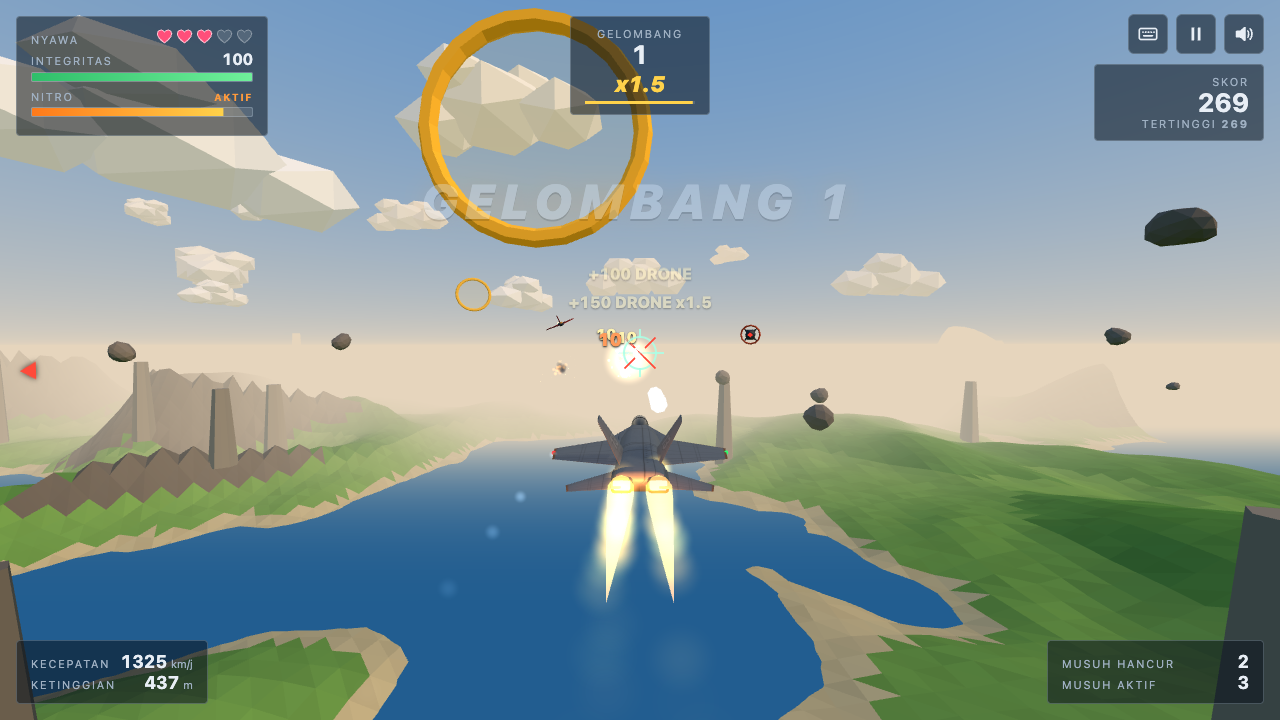
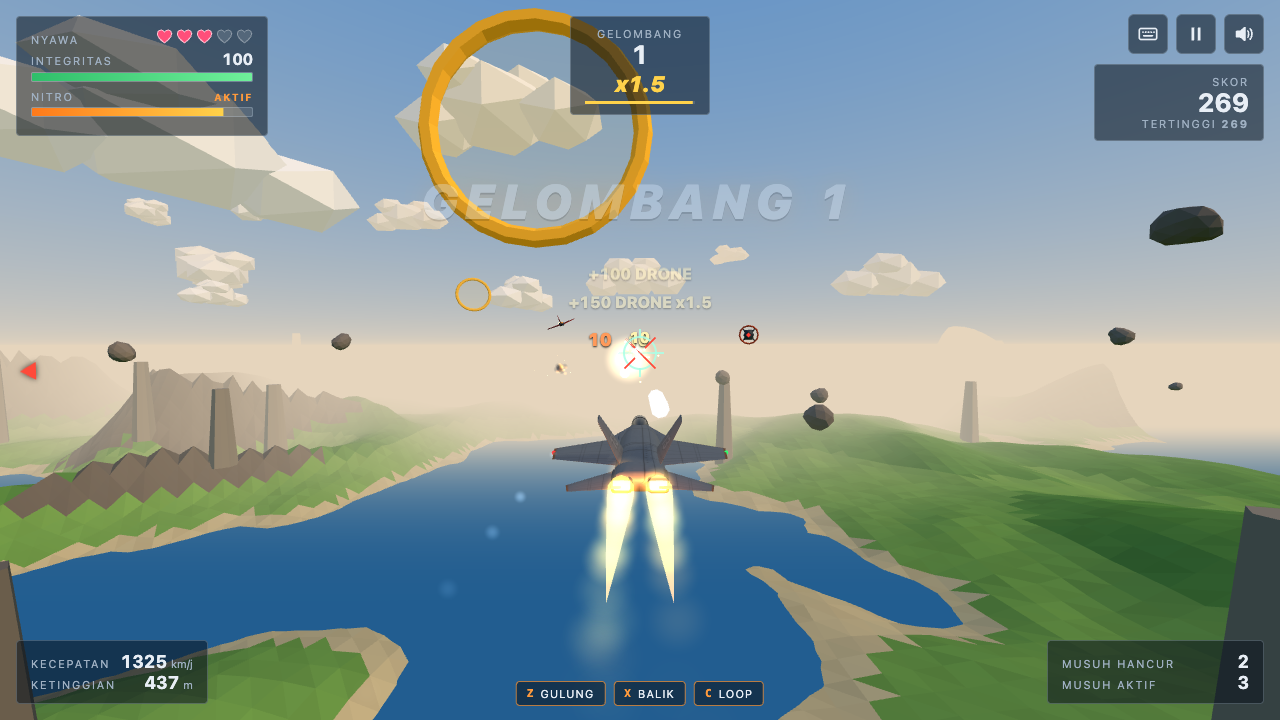
feat: B2 manuver Gulung Tong (kebal peluru), Balik Arah dan Looping dengan cooldown, indikator HUD, ketuk ganda dan tombol mode HP

diff --git a/index.html b/index.html
@@ -166,7 +166,18 @@
   .note { margin: 6px 0 0; font-size: 12px; color: #ffd28a; }
   .link { font: inherit; color: var(--ui-accent); background: none; border: 0; text-decoration: underline; cursor: pointer; padding: 0; }
   .btn.danger { color: #ffb0a0; border-color: rgba(255, 120, 100, 0.5); }
-  #fps { position: absolute; left: 50%; bottom: 12px; transform: translateX(-50%); font-size: 11px; color: var(--ui-dim); letter-spacing: 0.1em; }
+  #maneuvers { position: absolute; left: 50%; bottom: calc(14px + env(safe-area-inset-bottom)); transform: translateX(-50%); display: flex; gap: 8px; }
+  .man {
+    position: relative; overflow: hidden; display: flex; align-items: center; gap: 6px; padding: 5px 10px;
+    background: var(--ui-panel); border: 1px solid var(--ui-line); border-radius: 4px; font-size: 11px; letter-spacing: 0.1em;
+  }
+  .man i { position: absolute; inset: 0; background: rgba(255, 154, 60, 0.28); transform-origin: left center; transform: scaleX(0); }
+  .man b, .man span { position: relative; }
+  .man b { font-family: ui-monospace, Menlo, monospace; color: var(--ui-accent); }
+  .man.ready { border-color: rgba(255, 154, 60, 0.7); }
+  .man.active { background: rgba(255, 154, 60, 0.45); }
+  body.mode-hp #maneuvers { display: none; }
+  #fps { position: absolute; left: 50%; bottom: 52px; transform: translateX(-50%); font-size: 11px; color: var(--ui-dim); letter-spacing: 0.1em; }
   @media (max-width: 560px) { .set-grid { grid-template-columns: 1fr; } }
   #countdown {
     position: fixed; inset: 0; z-index: 25; display: flex; flex-direction: column; align-items: center; justify-content: center;
@@ -194,6 +205,9 @@
   .t-fire { right: 0; bottom: 0; width: 100px; height: 100px; background: rgba(255, 90, 60, 0.35) !important; }
   .t-fire.on { background: rgba(255, 90, 60, 0.7) !important; }
   .t-nitro { left: 0; bottom: 8px; width: 76px; height: 76px; }
+  #touch .t-man { width: 58px; height: 40px; border-radius: 10px; font-size: 10px; top: 0; }
+  .t-roll { left: 0; } .t-imm { left: 66px; } .t-loop { left: 132px; }
+  #touch .t-man.cool { opacity: 0.45; }
   body.mode-hp .hud-block.bl, body.mode-hp .hud-block.br { bottom: auto; top: calc(150px + env(safe-area-inset-top)); }
   body.mode-hp .hud-block.br { top: calc(150px + env(safe-area-inset-top)); }
   .tool .ic-hp { display: none; }
@@ -413,6 +427,11 @@
     <div class="stat"><span class="label">MUSUH AKTIF</span><span id="enemies" class="num">0</span></div>
   </div>
   <div id="warning" class="hidden">TARIK NAIK!</div>
+  <div id="maneuvers">
+    <div class="man" data-man="roll"><i></i><b>Z</b><span>GULUNG</span></div>
+    <div class="man" data-man="immelmann"><i></i><b>X</b><span>BALIK</span></div>
+    <div class="man" data-man="loop"><i></i><b>C</b><span>LOOP</span></div>
+  </div>
   <div id="fps" class="hidden">0 FPS</div>
   <div id="banner"></div>
   <div id="toasts"></div>
@@ -428,6 +447,9 @@
   <div class="actions">
     <button class="tbtn t-nitro" data-act="nitro" type="button">NITRO</button>
     <button class="tbtn t-fire" data-act="fire" type="button">TEMBAK</button>
+    <button class="tbtn t-man t-roll" data-man="roll" type="button">GULUNG</button>
+    <button class="tbtn t-man t-imm" data-man="immelmann" type="button">BALIK</button>
+    <button class="tbtn t-man t-loop" data-man="loop" type="button">LOOP</button>
   </div>
 </div>
 <div id="rotate-hint" class="screen hidden"><div class="card"><h2>PUTAR LAYAR</h2><p class="hint">Mode HP dimainkan mendatar (landscape). Putar perangkatmu untuk melanjutkan.</p></div></div>
@@ -644,6 +666,13 @@ const CONFIG = {
     rollRate: 2.6,             // laju roll saat A atau D ditekan sambil pitch
     autoLevelRate: 1.1,        // laju penstabil otomatis mengembalikan hidung ke horizon
     climbSpeedFactor: 0.15,    // kecepatan naik 15 persen saat menukik, turun 15 persen saat menanjak
+  },
+  // Manuver akrobatik: durasi dan cooldown dalam detik
+  maneuvers: {
+    roll: { label: 'GULUNG', key: 'Z', duration: 0.85, cooldown: 4, sideShift: 16 },   // kebal peluru selama gulungan
+    immelmann: { label: 'BALIK', key: 'X', duration: 1.9, cooldown: 6 },              // setengah looping lalu setengah gulungan
+    loop: { label: 'LOOP', key: 'C', duration: 2.6, cooldown: 5 },
+    doubleTapWindow: 0.28,     // ketuk ganda A atau D untuk gulung tong
   },
   camera: {
     fov: 68,                   // FOV normal
@@ -1576,6 +1605,9 @@ const Player = {
   _up: new THREE.Vector3(0, 1, 0),
   _right: new THREE.Vector3(1, 0, 0),
   autoLevel: true,
+  maneuver: null,                     // { type, t, dur, dir, applied }
+  cooldowns: { roll: 0, immelmann: 0, loop: 0 },
+  get rolling() { return this.maneuver ? this.maneuver.type === 'roll' : false; },
   yaw: 0, pitch: 0, roll: 0,
   speed: 0,
   health: null,        // komponen Health, dibuat setelah definisi objek
@@ -1596,6 +1628,8 @@ const Player = {
     this.pos.set(0, Worlds.active.safeStartAltitude(), 0);
     this.yaw = 0; this.pitch = 0; this.roll = 0;
     this.quat.identity();
+    this.maneuver = null;
+    this.cooldowns.roll = 0; this.cooldowns.immelmann = 0; this.cooldowns.loop = 0;
     this.speed = C.baseSpeed * this.ship.stats.speed;
     this.health.reset(this.ship.stats.hp);
     this.alive = true;
@@ -1621,14 +1655,21 @@ const Player = {
   update(dt, pitchIn, yawIn) {
     const C = CONFIG.player, F = CONFIG.flight, W = Worlds.active, q = this.quat;
     const agility = this.ship.stats.agility;
+    for (const k in this.cooldowns) if (this.cooldowns[k] > 0) this.cooldowns[k] = Math.max(0, this.cooldowns[k] - dt);
+    if (this.maneuver) {
+      this.updateManeuver(dt);
+      pitchIn = 0; yawIn = 0;
+    }
     this.basis();
     const f = this.forward, up = this._up, right = this._right;
     const vertical = Math.abs(f.y) > 0.94;                // dekat tegak lurus: bank tidak terdefinisi
     const bank = Math.atan2(right.y, up.y);               // positif = miring kiri; sekitar pi = terbalik
 
     // Pitch: rotasi di sumbu kanan lokal (positif = hidung naik)
-    if (pitchIn !== 0) this.rotateLocal(_AX_X, pitchIn * F.pitchRate * agility * dt);
-    if (pitchIn !== 0) {
+    if (this.maneuver) { /* manuver mengendalikan orientasi */ }
+    else if (pitchIn !== 0) this.rotateLocal(_AX_X, pitchIn * F.pitchRate * agility * dt);
+    if (this.maneuver) { /* tanpa koreksi bank selama manuver */ }
+    else if (pitchIn !== 0) {
       // Tarik sambil belok dalam posisi tegak: bank menuju target (belokan tajam).
       // Saat terbalik atau vertikal, A dan D menjadi laju roll. W saja tidak dikoreksi agar looping bersih.
       if (yawIn !== 0) {
@@ -1656,7 +1697,7 @@ const Player = {
     // Belok: yaw di sumbu tegak dunia sebanding bank (hanya saat tidak terbalik), diperkecil saat menanjak tajam
     this.basis();
     const bank2 = Math.atan2(this._right.y, this._up.y);
-    if (Math.abs(bank2) < Math.PI / 2) {
+    if (this.maneuver ? false : Math.abs(bank2) < Math.PI / 2) {
       const horiz = Math.sqrt(Math.max(0, 1 - this.forward.y * this.forward.y));
       const turn = C.turnRate * agility * clamp(Math.sin(bank2) / Math.sin(C.maxRoll), -1.2, 1.2) * horiz;
       _qb.setFromAxisAngle(_AX_Y, turn * dt);
@@ -1678,6 +1719,49 @@ const Player = {
     if (this.pos.y < W.minY) this.pos.y = W.minY;
     this.rig.quaternion.copy(q);
     this.syncEuler();
+  },
+
+  // Mulai manuver bila tidak sedang bermanuver dan cooldown sudah habis
+  startManeuver(type, dir = 1, force = false) {
+    if (!this.alive || Game.state !== 'playing') return false;
+    if (this.maneuver) return false;
+    if (!force) { if (this.cooldowns[type] > 0) return false; }
+    const M = CONFIG.maneuvers[type];
+    this.maneuver = { type, t: 0, dur: M.duration, dir: dir < 0 ? -1 : 1, applied: 0, applied2: 0 };
+    this.cooldowns[type] = M.cooldown;
+    Events.emit('maneuver', type);
+    return true;
+  },
+  // Kurva halus 0..1 untuk sudut manuver
+  ease(x) { x = clamp(x, 0, 1); return x * x * (3 - 2 * x); },
+  updateManeuver(dt) {
+    const m = this.maneuver;
+    m.t += dt;
+    const k = Math.min(1, m.t / m.dur);
+    if (m.type === 'roll') {
+      // Satu putaran penuh di sumbu depan, sambil bergeser menyamping untuk menghindar
+      const target = this.ease(k) * Math.PI * 2 * m.dir;
+      this.rotateLocal(_AX_Z, target - m.applied);
+      m.applied = target;
+      this.basis();
+      const shift = -m.dir * CONFIG.maneuvers.roll.sideShift * Math.sin(Math.PI * k) * dt * 2;
+      this.pos.x += this._right.x * shift;
+      this.pos.z += this._right.z * shift;
+    } else if (m.type === 'immelmann') {
+      // 60 persen waktu: setengah looping naik; sisanya: setengah gulungan kembali tegak
+      const kp = clamp(k / 0.6, 0, 1), kr = clamp((k - 0.6) / 0.4, 0, 1);
+      const pTarget = this.ease(kp) * Math.PI;
+      this.rotateLocal(_AX_X, pTarget - m.applied);
+      m.applied = pTarget;
+      const rTarget = this.ease(kr) * Math.PI;
+      this.rotateLocal(_AX_Z, rTarget - m.applied2);
+      m.applied2 = rTarget;
+    } else {
+      const target = this.ease(k) * Math.PI * 2;
+      this.rotateLocal(_AX_X, target - m.applied);
+      m.applied = target;
+    }
+    if (k >= 1) this.maneuver = null;
   },
 
   // Vektor arah dari quaternion (tanpa alokasi)
@@ -2964,7 +3048,7 @@ function updateCombat() {
     if (!eb.active[i]) continue;
     const i3 = i * 3;
     const bx = eb.p[i3], by = eb.p[i3 + 1], bz = eb.p[i3 + 2];
-    if (Player.alive) {
+    if (Player.alive ? !Player.rolling : false) {   // gulung tong: kebal peluru musuh
       if (segmentHitsSphere(eb.prev[i3], eb.prev[i3 + 1], eb.prev[i3 + 2], bx, by, bz, P.x, P.y, P.z, pr)) {
         eb.kill(i);
         Events.emit('bulletImpact', bx, by, bz);
@@ -4332,6 +4416,8 @@ function updateHud(dt) {
   }
   updateIndicators();
   updateHpBars();
+  updateManeuverHud();
+  Touch.updateCooldowns();
   updateDamageNumbers(dt);
   v = Game.state === 'playing' ? (Player.alive ? hp < CONFIG.player.criticalHp : false) : false;
   if (changed('critical', v)) $('critical').classList.toggle('hidden', !v);
@@ -4377,6 +4463,20 @@ function updateHpBars() {
   for (let k = hpBarCount; k < hud.hpBars.length; k++) {
     const b = hud.hpBars[k];
     if (b.shown) { b.shown = false; b.el.style.display = 'none'; }
+  }
+}
+
+// Indikator cooldown manuver
+hud.mans = {};
+for (const el of document.querySelectorAll('#maneuvers .man')) hud.mans[el.dataset.man] = { el, fill: el.querySelector('i') };
+function updateManeuverHud() {
+  for (const k in hud.mans) {
+    const cd = Player.cooldowns[k], tot = CONFIG.maneuvers[k].cooldown;
+    const active = Player.maneuver ? Player.maneuver.type === k : false;
+    const v = Math.round((cd / tot) * 40) / 40;
+    if (changed('man' + k, v)) hud.mans[k].fill.style.transform = 'scaleX(' + v + ')';
+    const cls = active ? 'man active' : cd <= 0 ? 'man ready' : 'man';
+    if (changed('manc' + k, cls)) hud.mans[k].el.className = cls;
   }
 }
 
@@ -4809,6 +4909,7 @@ const Controls = {
 // Sumber keyboard: berbasis KeyboardEvent.code (posisi fisik tombol)
 const Keyboard = {
   down: Object.create(null),   // code -> boolean
+  lastTap: { code: '', t: 0 },
   fill(c) {
     const d = this.down;
     if (d.KeyW) c.up = true;
@@ -4826,7 +4927,7 @@ Controls.addSource(Keyboard);
 // Tombol yang aksi bawaan browsernya harus dicegah (scroll, klik tombol yang sedang fokus)
 const PREVENT_CODES = new Set(['Space', 'Enter', 'NumpadEnter', 'ArrowUp', 'ArrowDown', 'ArrowLeft', 'ArrowRight']);
 const GAME_CODES = new Set(['KeyW', 'KeyA', 'KeyS', 'KeyD', 'Space', 'Enter', 'NumpadEnter', 'KeyP', 'Escape', 'KeyR', 'KeyM',
-  'ShiftLeft', 'ShiftRight',
+  'ShiftLeft', 'ShiftRight', 'KeyZ', 'KeyX', 'KeyC',
   'ArrowUp', 'ArrowDown', 'ArrowLeft', 'ArrowRight']);
 // Navigasi menu dengan keyboard: panah atas dan bawah memilih, Enter menekan, Esc menutup overlay.
 // Mengembalikan true bila tombol sudah ditangani.
@@ -4895,6 +4996,25 @@ function onKeyDown(e) {
     case 'KeyM':
       toggleMute();
       break;
+    case 'KeyZ':
+      Player.startManeuver('roll', Keyboard.down.KeyD ? -1 : 1);
+      break;
+    case 'KeyX':
+      Player.startManeuver('immelmann');
+      break;
+    case 'KeyC':
+      Player.startManeuver('loop');
+      break;
+    case 'KeyA':
+    case 'KeyD': {
+      // Ketuk ganda A atau D: gulung tong ke arah itu
+      const now = performance.now() / 1000;
+      if (Keyboard.lastTap.code === code) {
+        if (now - Keyboard.lastTap.t < CONFIG.maneuvers.doubleTapWindow) Player.startManeuver('roll', code === 'KeyD' ? -1 : 1);
+      }
+      Keyboard.lastTap.code = code; Keyboard.lastTap.t = now;
+      break;
+    }
   }
 }
 
@@ -4964,7 +5084,15 @@ const Touch = {
   },
   init() {
     for (const b of this.root.querySelectorAll('[data-act]')) this.buttons[b.dataset.act] = b;
+    this.manButtons = Array.from(this.root.querySelectorAll('[data-man]'));
     const down = (e) => {
+      // Tombol manuver: sekali tekan
+      const mb = e.target.closest('[data-man]');
+      if (mb) {
+        e.preventDefault();
+        Player.startManeuver(mb.dataset.man, this.counts.right > 0 ? -1 : 1);
+        return;
+      }
       const b = e.target.closest('[data-act]');
       if (!b) return;
       e.preventDefault();
@@ -4986,6 +5114,14 @@ const Touch = {
     this.root.addEventListener('pointercancel', up);
     this.root.addEventListener('lostpointercapture', up);
     this.root.addEventListener('contextmenu', (e) => e.preventDefault());
+  },
+  // Tombol manuver meredup saat cooldown
+  updateCooldowns() {
+    if (!this.enabled) return;
+    for (const b of this.manButtons) {
+      const cool = Player.cooldowns[b.dataset.man] > 0;
+      if (b.classList.contains('cool') !== cool) b.classList.toggle('cool', cool);
+    }
   },
   // Kontrol sentuh hanya tampil di mode HP saat bermain
   updateVisibility() {
@@ -5183,6 +5319,8 @@ window.__game = {
       pickupsCollected: Pickups.collected,
       warning: Player.warning,
       invulnerable: Player.invuln > 0,
+      maneuver: Player.maneuver ? Player.maneuver.type : null,
+      cooldowns: { ...Player.cooldowns },
       highScore: HighScore.value,
       difficulty: Game.difficultyKey,
       world: Worlds.active.id,
@@ -5272,6 +5410,15 @@ window.__game = {
     setAsteroidDensity(level) { Asteroids.densityLevel = clamp(level | 0, 0, 2); },
     // Hasil kali titik arah pandang kamera dengan arah terbang pesawat (1 depan, -1 belakang)
     cameraForwardDot() { camera.getWorldDirection(_vc); return round2(_vc.dot(Player.forward)); },
+    forceManeuver(type, dir = 1) { return Player.startManeuver(type, dir, true); },
+    // Tembakkan satu peluru musuh tepat ke arah pemain dari jarak tertentu (uji kebal gulungan)
+    shootPlayer(dist = 60) {
+      const P = Player.pos, f = Player.forward;
+      _va.copy(P).addScaledVector(f, dist);
+      _vb.copy(P).sub(_va).normalize();
+      Enemies.bullets.spawn(_va.x, _va.y, _va.z, _vb.x, _vb.y, _vb.z, 300 + Player.speed, 2, CONFIG.enemies.gunship.bulletDamage);
+      return true;
+    },
     killAllEnemies() { for (const e of Enemies.list) if (e.active) Enemies.destroy(e, true); },
     // Taruh cincin tepat di jalur terbang pemain (jarak dalam unit)
     placeRingAhead(dist = 120) {

diff --git a/docs/PROGRESS.md b/docs/PROGRESS.md
@@ -21,12 +21,13 @@ Berkas ini adalah catatan kerja agar pengerjaan bisa dilanjutkan otomatis setela
 - S2 antarmuka dunia EarthWorld dan SpaceWorld, layar Pilih Medan, save v2, skor per medan.
 - A1 registri kapal `SHIPS` berbasis data, `buildJetRaptor`, `Player.rig`.
 - B1 model terbang quaternion bebas (looping), penstabil otomatis, kamera diredam, Shift lihat belakang.
+- B2 manuver Z Gulung Tong, X Balik Arah, C Looping dengan cooldown, chip HUD, tombol HP.
 
 ## Urutan task berikutnya (blok terakhir menang bila bertentangan)
 
 Fase 0, rasa main (paling awal):
 1. (SELESAI) B1 Model terbang quaternion bebas (looping penuh dengan menahan W atau S), kecepatan plus minus 15 persen saat menukik atau menanjak, penstabil otomatis (opsi, default hidup), roll kamera diredam (opsi "Kamera ikut berguling", default mati), Shift tahan untuk lihat belakang.
-2. B2 Manuver Z Gulung Tong (kebal peluru selama gulungan, arah ikut A atau D, juga ketuk ganda A atau D), X Balik Arah (Immelmann), C Looping. Cooldown 4 sampai 6 detik di CONFIG, indikator HUD, tiga tombol kecil di mode HP.
+2. (SELESAI) B2 Manuver Z Gulung Tong (kebal peluru selama gulungan, arah ikut A atau D, juga ketuk ganda A atau D), X Balik Arah (Immelmann), C Looping. Cooldown 4 sampai 6 detik di CONFIG, indikator HUD, tiga tombol kecil di mode HP.
 3. B3 Tabrakan fatal (tanah, laut, gunung, pilar, planet, stasiun, bos, asteroid raksasa) langsung game over dengan penyebab; hapus bantuan naik otomatis dan lantai ketinggian; efek ledakan besar, gerak lambat 0,8 detik, kamera orbit; peringatan TERLALU RENDAH atau TARIK NAIK; opsi "Tabrakan fatal" (default hidup, bila mati hanya damage besar dan pantulan).
 4. B4 AI musuh: kecepatan 70 sampai 85 persen pemain, maksimum 80 persen kecepatan nitro; siklus APPROACH, ATTACK (tanda sebelum menembak), BREAK, REPOSITION; 80 persen spawn di kerucut depan; jarak pisah antar musuh; kebal 1 detik setelah damage; penanda lead; bantuan bidik Mati, Rendah, Sedang (default Rendah); peringatan musuh di belakang; metrik tes waktu musuh di kerucut belakang dan tabrakan per menit di bawah ambang CONFIG.
 5. B5 Laju tembak cooldown 0,10 sampai 0,12 detik, kecepatan peluru sekitar 3 kali, bolt plasma merah oranye dengan inti putih dan halo, peluru musuh berbeda (bulat merah magenta); buff OVERDRIVE (laju 1,6 kali) dan PENGHANCUR (damage 1,5 kali) 10 detik dengan ikon dan penghitung; pickup kristal; kartu upgrade permanen (disiapkan untuk sistem kartu S11).
